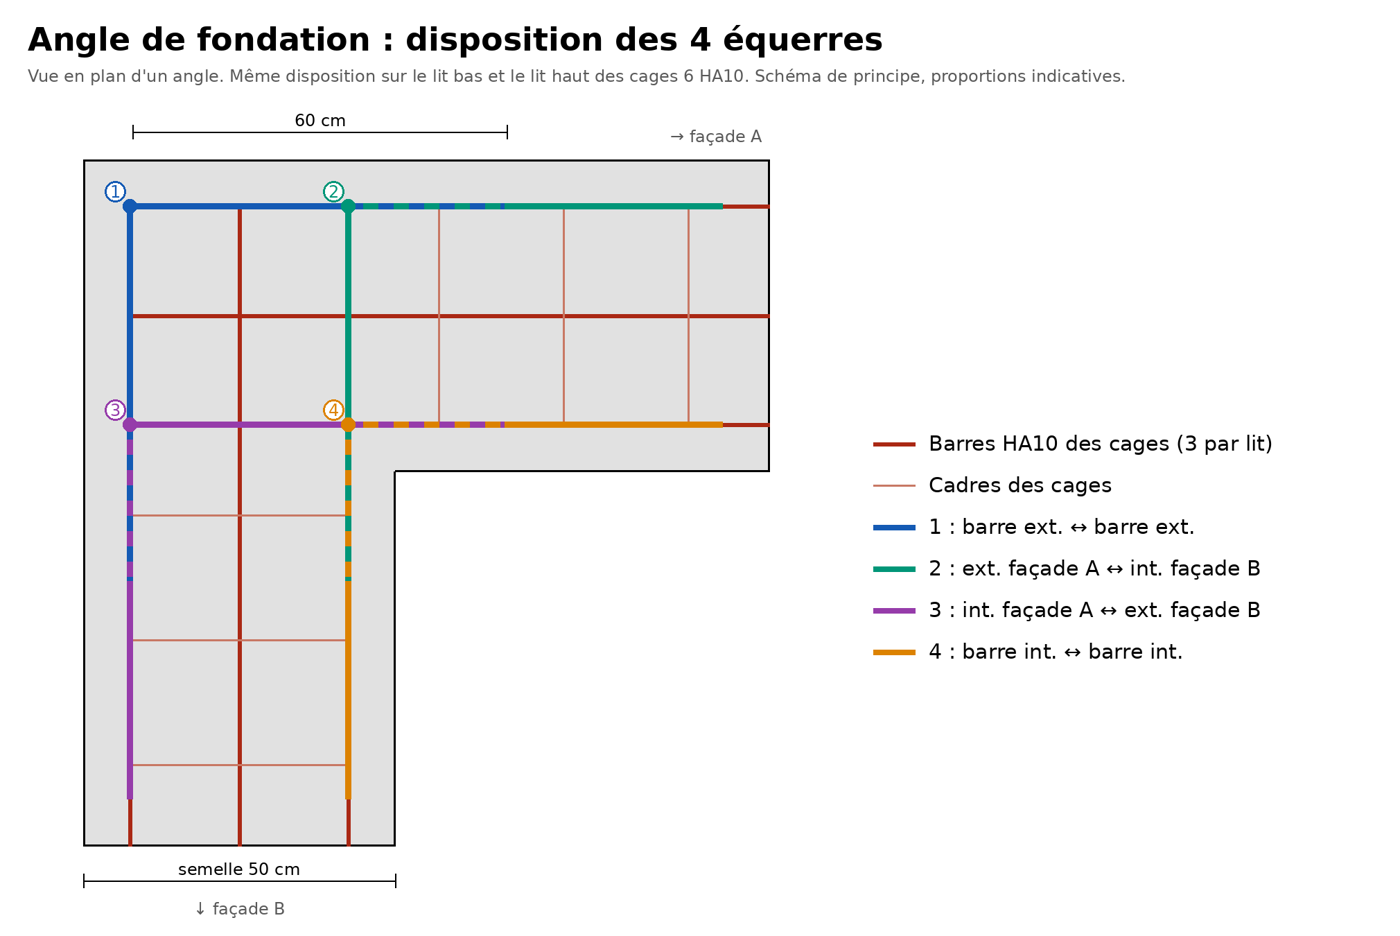
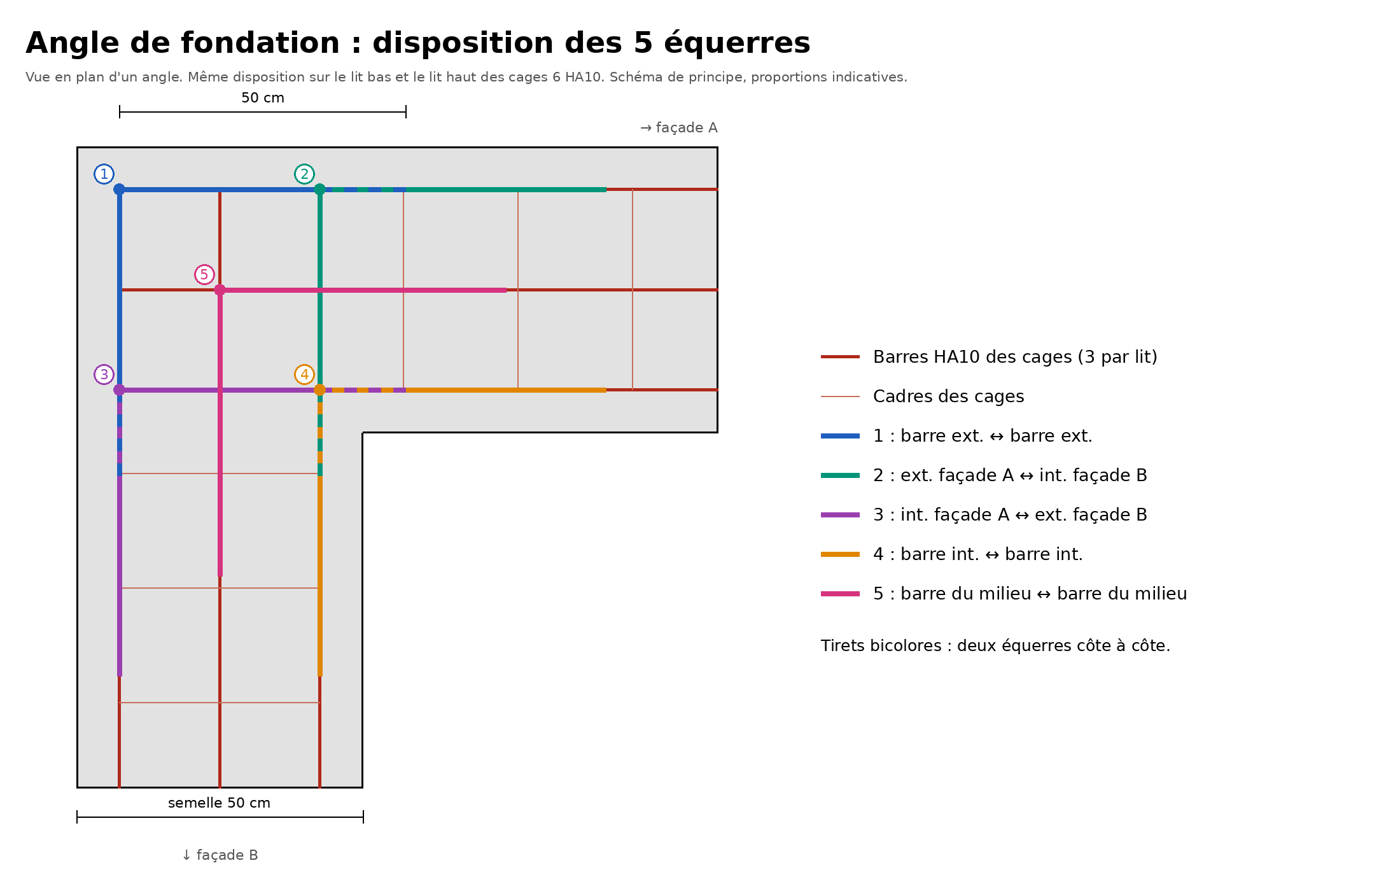
Fondations : schéma des équerres corrigé (5 par lit, 50 × 50 cm)

Changed region(s): [[0.0, 0.0303, 0.7986, 1.0], [0.5836, 0.3939, 0.9214, 0.7273]]

diff --git a/content/etapes/04-les-fondations/index.md b/content/etapes/04-les-fondations/index.md
@@ -18,7 +18,7 @@ Avril 2023 : quatre mois de pelle plus tard, les fouilles sont prêtes. Reste à
 |---|---|
 | **Type** | semelles filantes en béton armé |
 | **Dimensions** | 50 cm de large, 30 cm d’épaisseur, sur 5 cm de béton de propreté |
-| **Armatures** | cages 6 HA10, 24 équerres de liaison |
+| **Armatures** | cages 6 HA10, équerres de liaison dans les angles |
 | **Béton** | 5 m³ de C25/30, coulés le 19 juin 2023 |
 | **Coût du béton livré** | environ 1 100 € TTC |
 {{< /fiche >}}
@@ -41,7 +41,7 @@ Nos semelles sont armées de **cages 6 HA10** : six barres d’acier « haute ad
 
 C’est là que se joue la solidité de l’ensemble. Une barre simplement pliée dans un angle rentrant cherche à se redresser une fois tendue, et fait éclater le béton côté intérieur : c’est la **poussée au vide**.
 
-Dans nos angles, les cages se croisent et sont liées par des équerres HA10 de 60 × 60 cm, selon les règles de l’art du béton armé. Les armatures restent continues d’un mur à l’autre. Nous avons utilisé 24 équerres pour les angles et les jonctions entre cages.
+Dans nos angles, les cages se croisent et sont liées par des équerres HA10 : des barres de 1 m pliées en 50 × 50 cm. Cinq équerres par lit, en bas comme en haut, relient les barres extérieures, intérieures et du milieu des deux cages. Les armatures restent ainsi continues d’un mur à l’autre.
 
 {{< duo theorie="schema-equerres-angle.png" alt-theorie="Schéma en plan d’un angle : les barres des deux cages se croisent et sont reliées par des équerres" vrai="angle-equerres.jpg" alt-vrai="Deux cages d’armatures qui se croisent dans un angle" legende="Un angle de fondation : les cages se croisent et des équerres HA10 relient leurs barres dans les deux directions." >}}
 
